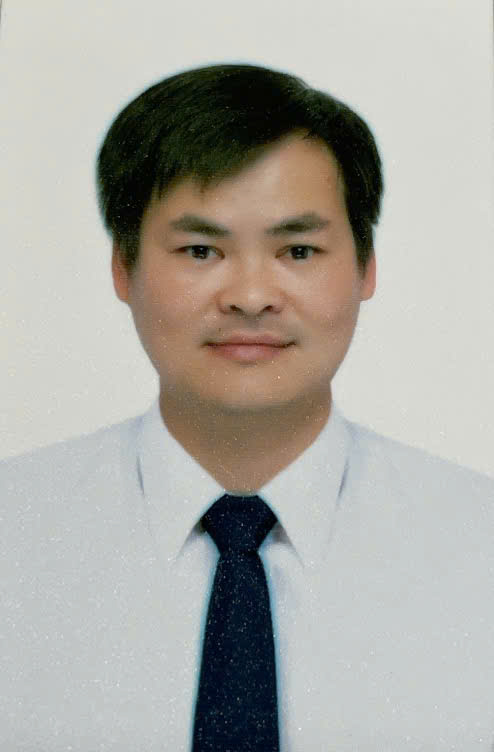
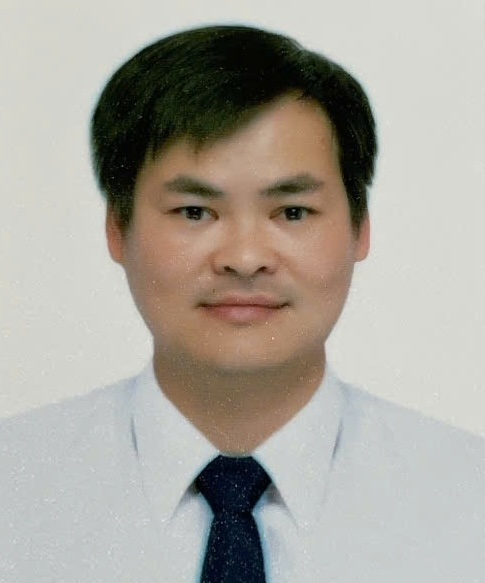
Update the organizer

diff --git a/src/components/home/EventOrganizers.tsx b/src/components/home/EventOrganizers.tsx
@@ -9,7 +9,7 @@ const EventOrganizers: React.FC = () => {
       role: 'Ban Tổ Chức - 12B',
       info: 'Trung tâm Y tế huyện Krông Búk',
       phone: '0916777758',
-      image: '/images/organizers/quoc_duy_2.png'
+      image: '/images/organizers/quoc_duy.jpg'
     },
     {
       id: 2,
